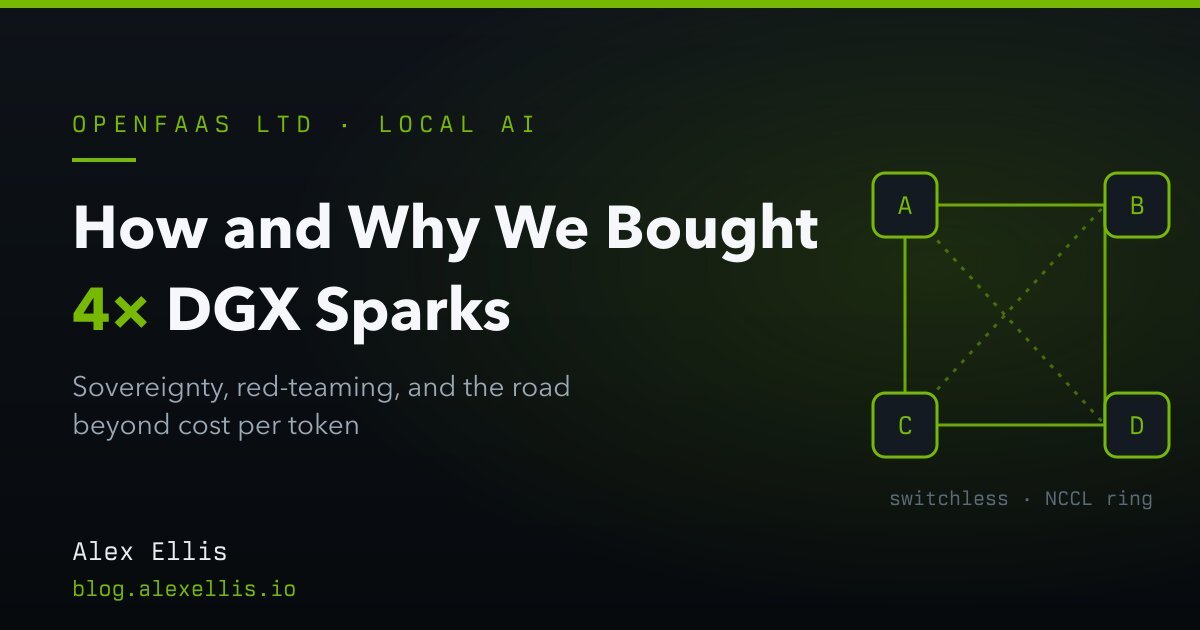
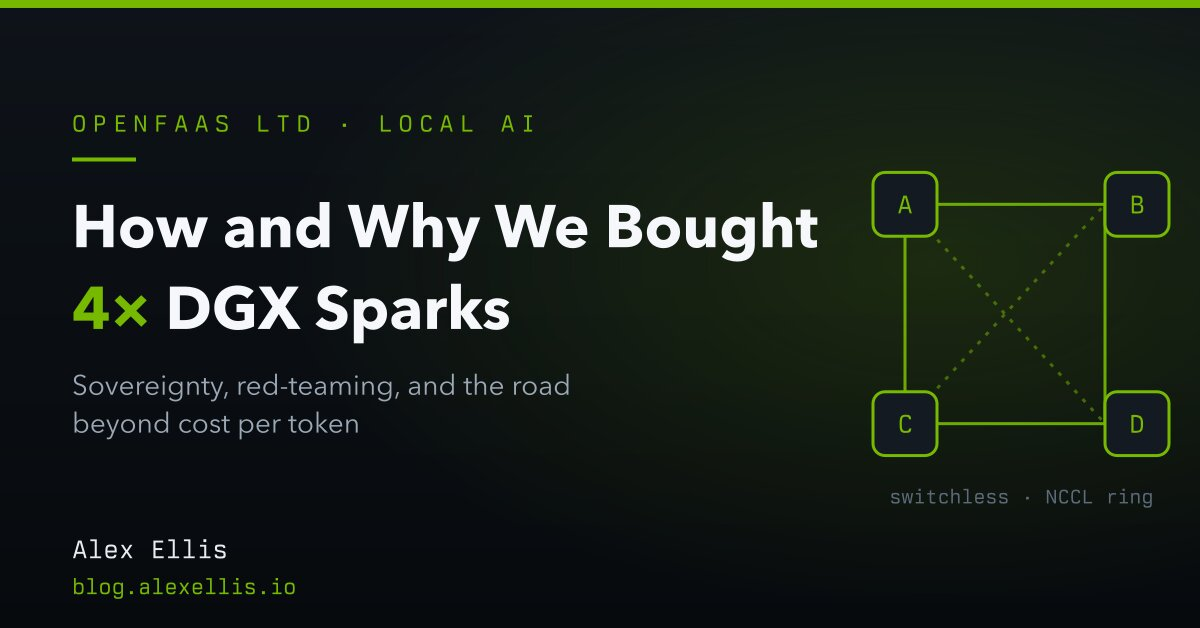
Hide share card from page, X-spec 1200x628

diff --git a/src/app/[slug]/page.tsx b/src/app/[slug]/page.tsx
@@ -36,7 +36,7 @@ export async function generateMetadata({ params }: Props) {
       };
     }
 
-    const imageUrl = getAbsoluteImageUrl(post.feature_image || '');
+    const imageUrl = getAbsoluteImageUrl(post.og_image || post.feature_image || '');
 
     return {
       title: post.title,

diff --git a/src/lib/posts.ts b/src/lib/posts.ts
@@ -19,6 +19,7 @@ export interface PostMeta {
   draft?: boolean;
   featured?: boolean;
   feature_image?: string;
+  og_image?: string;
   tags?: string[];
 }
 

diff --git a/posts/2026-09-15-how-and-why-we-bought-4-dgx-sparks.md b/posts/2026-09-15-how-and-why-we-bought-4-dgx-sparks.md
@@ -2,7 +2,7 @@
 title: "How and Why We Bought 4x DGX Sparks"
 slug: "how-and-why-we-bought-4-dgx-sparks"
 date: "2026-09-15"
-feature_image: "/content/images/2026/09/how-why-dgx-sparks/background.jpg"
+og_image: "/content/images/2026/09/how-why-dgx-sparks/background.jpg"
 meta_title: "How and Why We Bought 4x DGX Sparks"
 meta_description: "In June we deployed an RTX 6000 Pro into production, a few weeks later, we're now operating DGX Sparks for the team. Learn how and why."
 author: "Alex Ellis"
